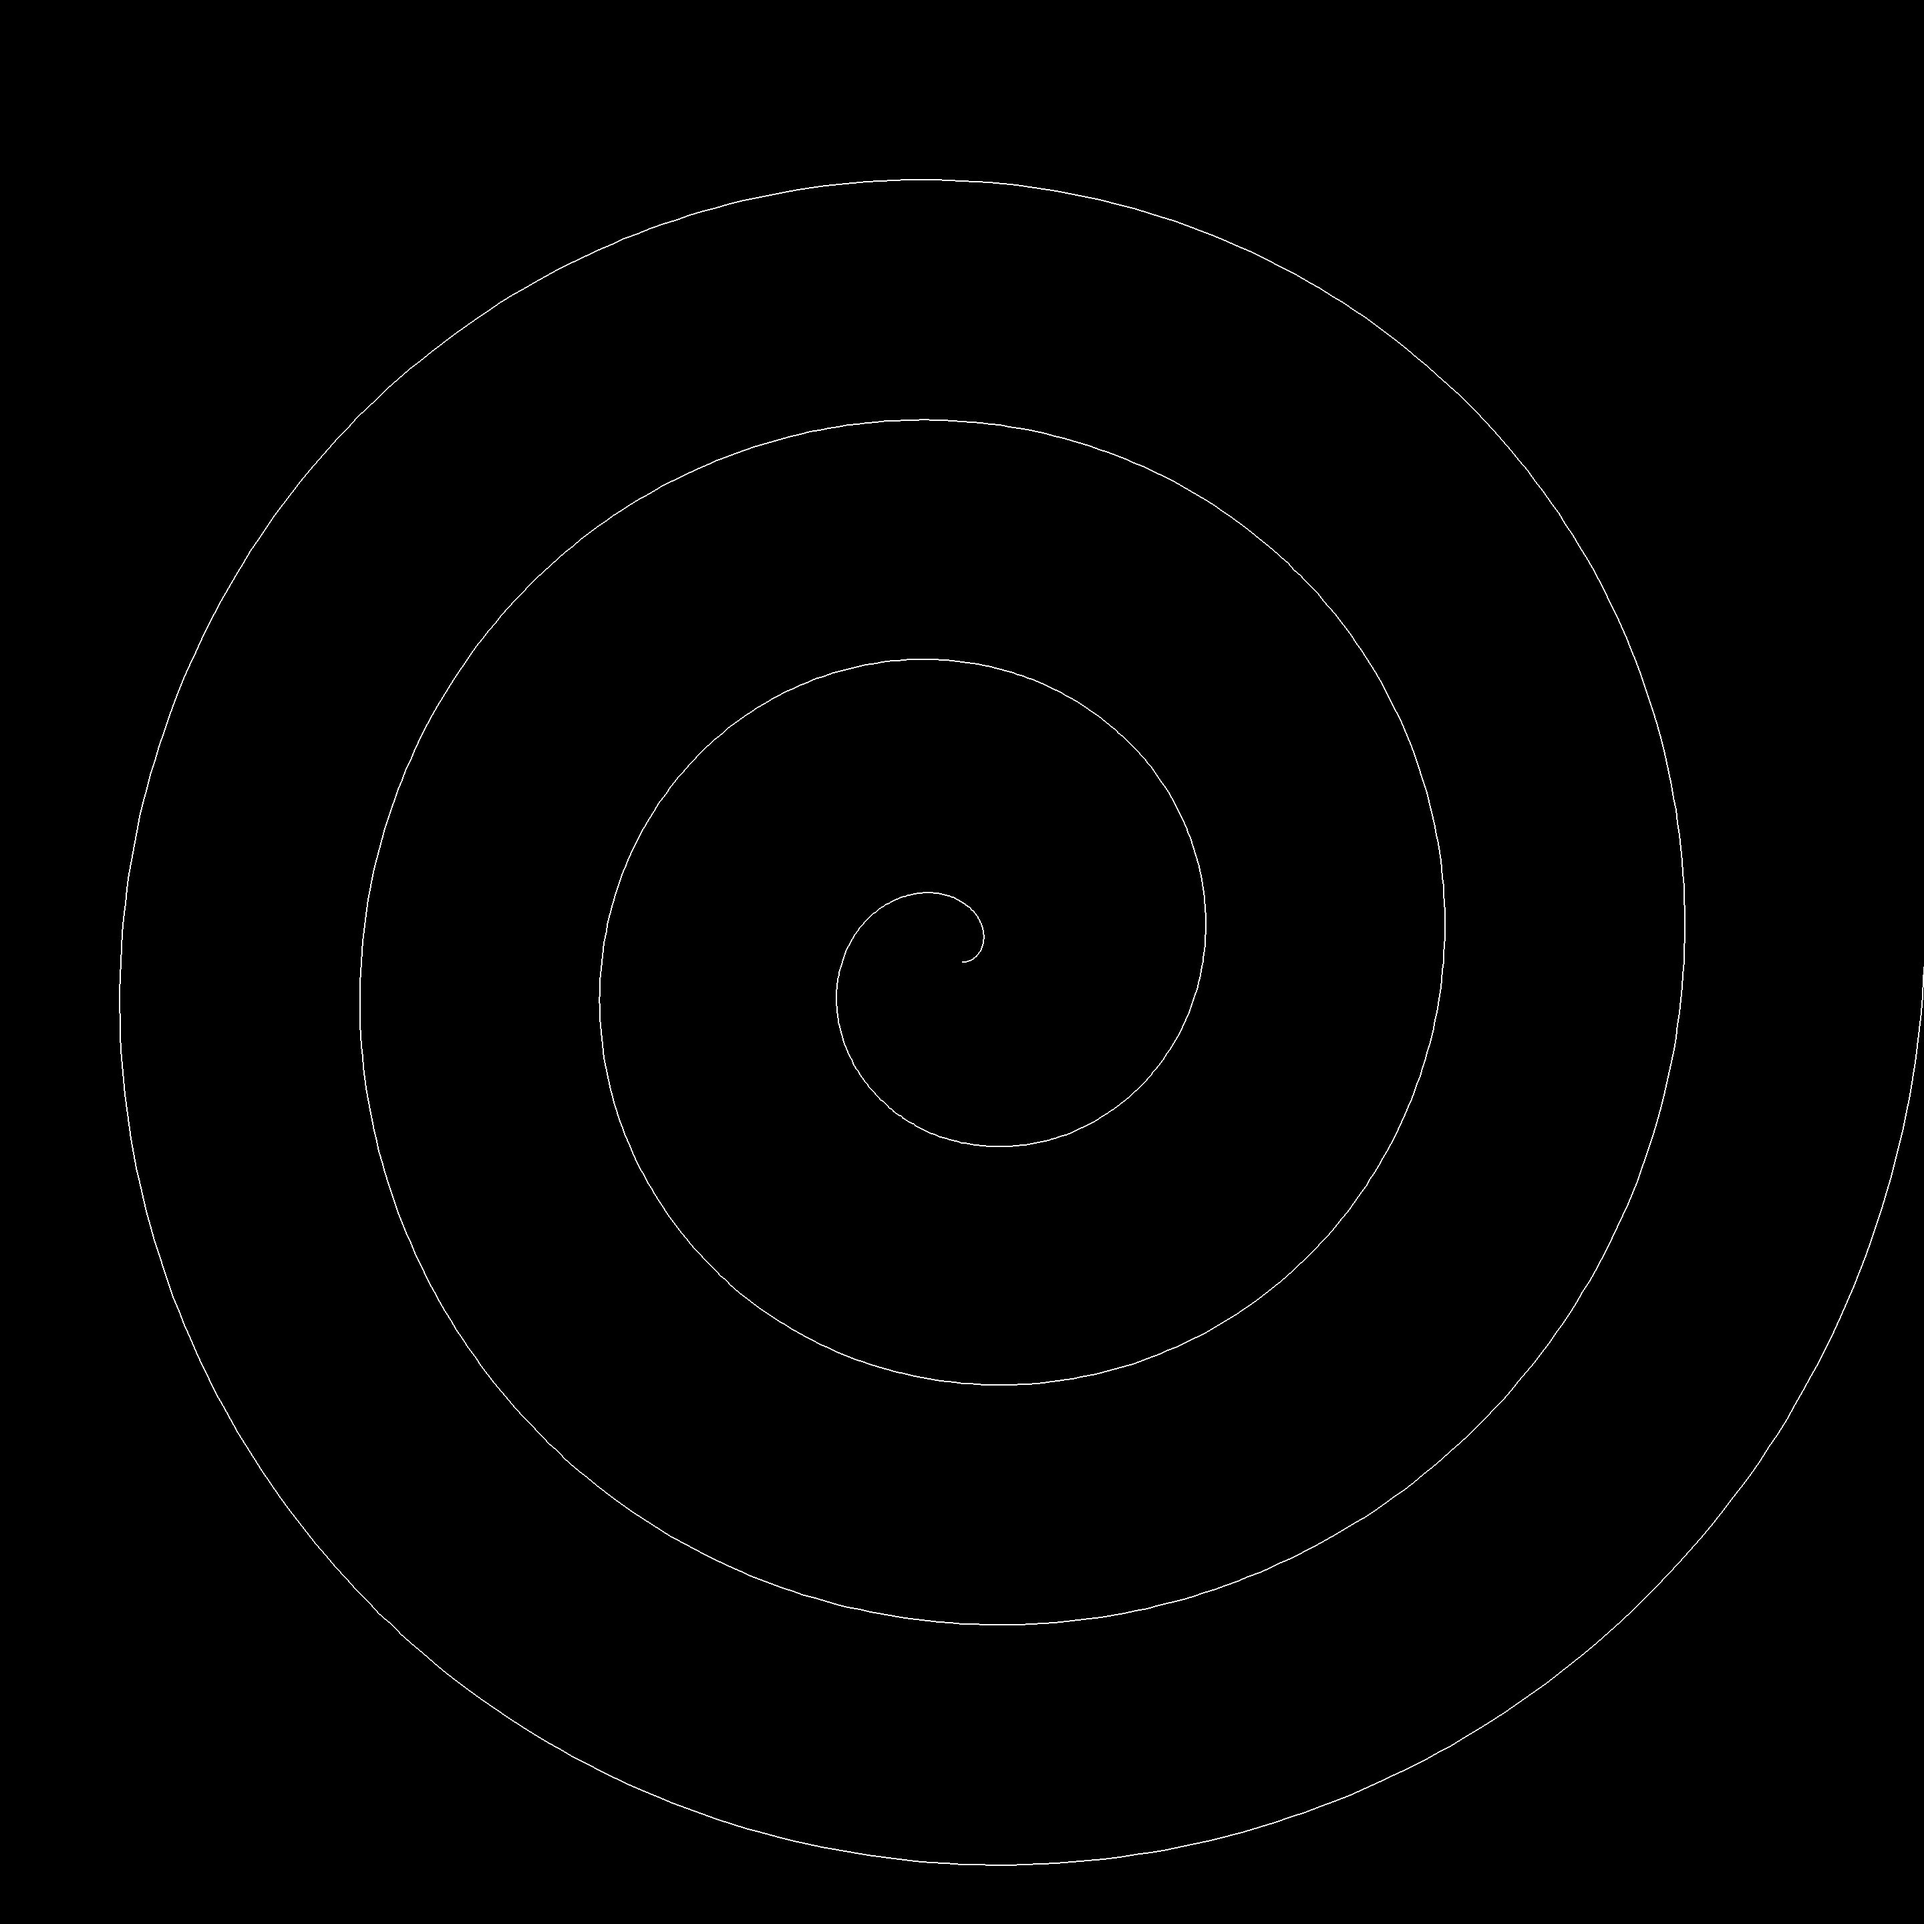
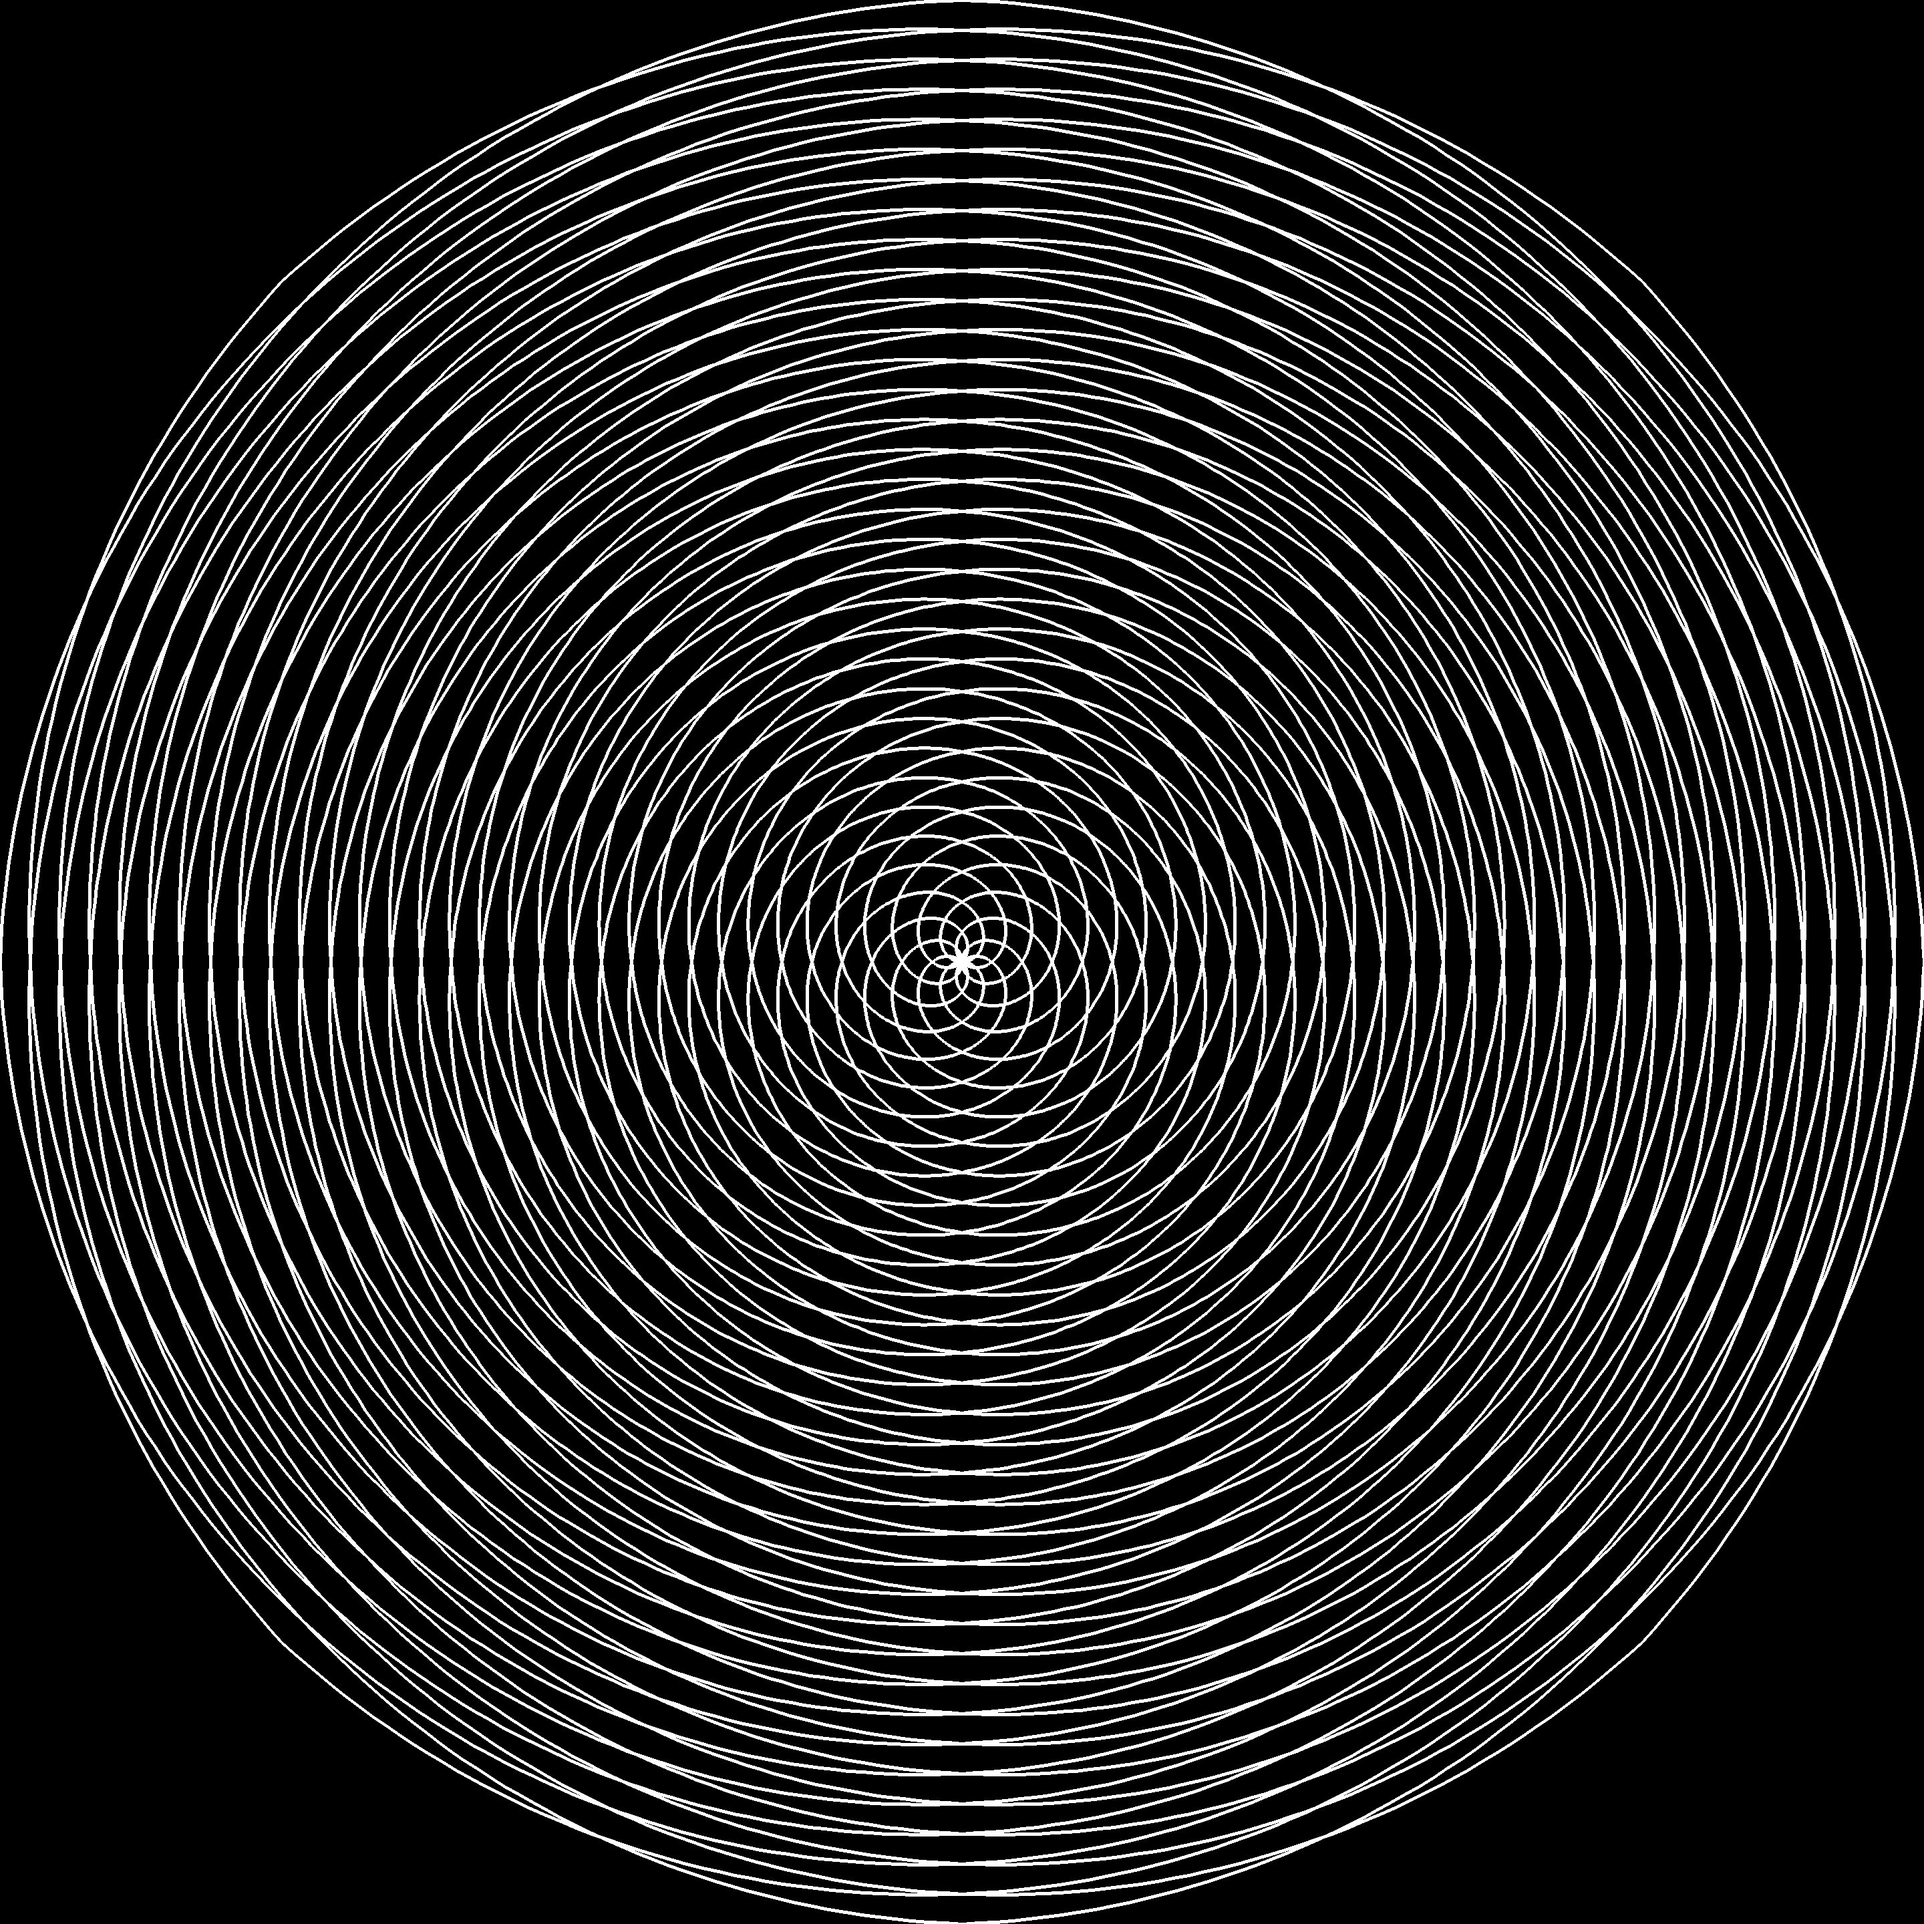
sync the mind and soul

Changed region(s): [[0.0, 0.0, 1.0, 1.0]]

diff --git a/cc_pygame/curve.py b/cc_pygame/curve.py
@@ -1,56 +1,36 @@
 import pygame
-import sys
-import numpy as np
-from scipy.interpolate import splprep, splev
+from utils.geometric import get_p1_from_polar
 
-# Initialize Pygame
-pygame.init()
-
-# Set up the display
-width, height = 800, 600
-screen = pygame.display.set_mode((width, height))
-pygame.display.set_caption("Drawing a Smooth Curve")
-
-# Define some colors
-BLACK = (0, 0, 0)
-WHITE = (255, 255, 255)
-RED = (255, 0, 0)
-
-# Define your list of points
-points = [(100, 200), (200, 100), (300, 300), (400, 200), (500, 400)]
-
-# Convert the points to NumPy array
-points_array = np.array(points)
-
-# Perform spline interpolation
-tck, u = splprep(points_array.T, s=0.0, per=0)
-
-# Evaluate the spline at a higher resolution
-u_new = np.linspace(u.min(), u.max(), 1000)
-x_new, y_new = splev(u_new, tck)
-
-# Main loop
-running = True
-while running:
-    # Handle events
-    for event in pygame.event.get():
-        if event.type == pygame.QUIT:
-            running = False
-
-    # Clear the screen
-    screen.fill(WHITE)
-
-    # Draw the smooth curve
-    for i in range(len(x_new) - 1):
-        pygame.draw.line(screen, BLACK, (int(x_new[i]), int(y_new[i])), (int(x_new[i + 1]), int(y_new[i + 1])), 2)
-
-    # Draw the control points
-    for point in points:
-        pygame.draw.circle(screen, RED, point, 5)
-
-    # Update the display
-    pygame.display.flip()
-
-# Quit Pygame
-pygame.quit()
-sys.exit()
+def draw_spiral(surface: pygame.SurfaceType, color: pygame.Color,
+                init_pos: pygame.Vector2, init_len: float,
+                init_angle_deg: float,
+                width: int = 1,
+                angle_change: float = -1,
+                len_change: float = -1,
+                stop_len: float = 0) -> None:
+    if init_len > stop_len:
+        l = init_len
+        a = init_angle_deg
+        points = []
+        while l > stop_len:
+            x, y = get_p1_from_polar(x1=init_pos.x, y1=init_pos.y,
+                                     rho=l, theta_deg=a)
+            points.append(pygame.Vector2(x, y))
+            l += len_change
+            a += angle_change
+        pygame.draw.lines(surface=surface, color=color, closed=False,
+                          points=points, width=width)
+    elif init_len < stop_len:
+        l = init_len
+        a = init_angle_deg
+        points = []
+        while l < stop_len:
+            x, y = get_p1_from_polar(x1=init_pos.x, y1=init_pos.y,
+                                     rho=l, theta_deg=a)
+            points.append(pygame.Vector2(x, y))
+            l += len_change
+            a += angle_change
+        pygame.draw.lines(surface=surface, color=color, closed=False,
+                          points=points, width=width)
+    else:
+        return

diff --git a/cc_pygame/pnger_12.py b/cc_pygame/pnger_12.py
@@ -1,0 +1,61 @@
+import sys
+import pygame
+from utils.geometric import get_p1_from_polar
+
+def main() -> int:
+    pygame.init()
+    res = (2880, 2880)
+    screen = pygame.display.set_mode(res)
+    screen_color = "grey10"
+    screen.fill(screen_color)
+    l = screen.get_width() / 2
+    a0 = 0
+    a1 = 180
+    a2 = 0
+    a3 = 180
+    a4 = 90
+    a5 = 270
+    a6 = 90
+    a7 = 270
+    points0 = points1 = points2 = points3 = points4 = points5 = points6 = points7 = []
+    while l > 0:
+        x0, y0 = get_p1_from_polar(x1=screen.get_width() / 2, y1=screen.get_height() / 2,
+                                   rho=l, theta_deg=a0)
+        x1, y1 = get_p1_from_polar(x1=screen.get_width() / 2, y1=screen.get_height() / 2,
+                                   rho=l, theta_deg=a1)
+        x2, y2 = get_p1_from_polar(x1=screen.get_width() / 2, y1=screen.get_height() / 2,
+                                   rho=l, theta_deg=a2)
+        x3, y3 = get_p1_from_polar(x1=screen.get_width() / 2, y1=screen.get_height() / 2,
+                                   rho=l, theta_deg=a3)
+        # x4, y4 = get_p1_from_polar(x1=screen.get_width() / 2, y1=screen.get_height() / 2,
+        #                            rho=l, theta_deg=a4)
+        # x5, y5 = get_p1_from_polar(x1=screen.get_width() / 2, y1=screen.get_height() / 2,
+        #                            rho=l, theta_deg=a5)
+        # x6, y6 = get_p1_from_polar(x1=screen.get_width() / 2, y1=screen.get_height() / 2,
+        #                            rho=l, theta_deg=a6)
+        # x7, y7 = get_p1_from_polar(x1=screen.get_width() / 2, y1=screen.get_height() / 2,
+        #                            rho=l, theta_deg=a7)
+        points0.append(pygame.Vector2(x0, y0))
+        points1.append(pygame.Vector2(x1, y1))
+        points2.append(pygame.Vector2(x2, y2))
+        points3.append(pygame.Vector2(x3, y3))
+        # points4.append(pygame.Vector2(x4, y4))
+        # points5.append(pygame.Vector2(x5, y5))
+        # points6.append(pygame.Vector2(x6, y6))
+        # points7.append(pygame.Vector2(x7, y7))
+        l -= 1
+        a0 += 1
+        a1 -= 1
+        a2 -= 1
+        a3 += 1
+        # a4 += 1
+        # a5 -= 1
+        # a6 -= 1
+        # a7 += 1
+    pygame.draw.lines(screen, "grey90", False, points0, 5)
+    pygame.image.save(screen, 'cc_pygame/gen/jpger_12.jpg')
+    pygame.quit()
+    return 0
+
+if __name__ == "__main__":
+    sys.exit(main())

diff --git a/cc_pygame/pnger_11.py b/cc_pygame/pnger_11.py
@@ -1,6 +1,23 @@
 import sys
 import pygame
-from utils.geometric import get_p1_from_polar
+from curve import draw_spiral
+
+# init_angles = [{"ang_deg": 0, "ang_change": 1},
+#                {"ang_deg": 0, "ang_change": -1},
+#                {"ang_deg": 45, "ang_change": 1},
+#                {"ang_deg": 45, "ang_change": -1},
+#                {"ang_deg": 90, "ang_change": 1},
+#                {"ang_deg": 90, "ang_change": -1},
+#                {"ang_deg": 135, "ang_change": 1},
+#                {"ang_deg": 135, "ang_change": -1},
+#                {"ang_deg": 180, "ang_change": 1},
+#                {"ang_deg": 180, "ang_change": -1},
+#                {"ang_deg": 225, "ang_change": 1},
+#                {"ang_deg": 225, "ang_change": -1},
+#                {"ang_deg": 270, "ang_change": 1},
+#                {"ang_deg": 270, "ang_change": -1},
+#                {"ang_deg": 315, "ang_change": 1},
+#                {"ang_deg": 315, "ang_change": -1}]
 
 def main() -> int:
     pygame.init()
@@ -8,16 +25,24 @@ def main() -> int:
     screen = pygame.display.set_mode(res)
     screen_color = "black"
     screen.fill(screen_color)
-    l = screen.get_width() / 2
-    a = 0
-    points = []
-    while l > 0:
-        x, y = get_p1_from_polar(x1=screen.get_width() / 2, y1=screen.get_height() / 2,
-                                 rho=l, theta_deg=a)
-        points.append(pygame.Vector2(x, y))
-        l -= 1
-        a += 1
-    pygame.draw.lines(screen, "white", False, points, 2)
+    len_const = screen.get_width() / 2
+    init_pos_const = pygame.Vector2(screen.get_width() / 2,
+                                    screen.get_height() / 2)
+    init_angles = []
+    iang = 0
+    dang = 1
+    count = 1
+    while iang < 360:
+        init_angles.append({"ang_deg": iang, "ang_change": dang})
+        if count == 2:
+            iang += 45
+            count = 0
+        count += 1
+        dang = -dang
+    for ang in init_angles:
+        draw_spiral(surface=screen, color="white", init_len=len_const,
+                    init_pos=init_pos_const, init_angle_deg=ang["ang_deg"],
+                    angle_change=ang["ang_change"], width=5)
     pygame.image.save(screen, 'cc_pygame/gen/jpger_11.jpg')
     pygame.quit()
     return 0
